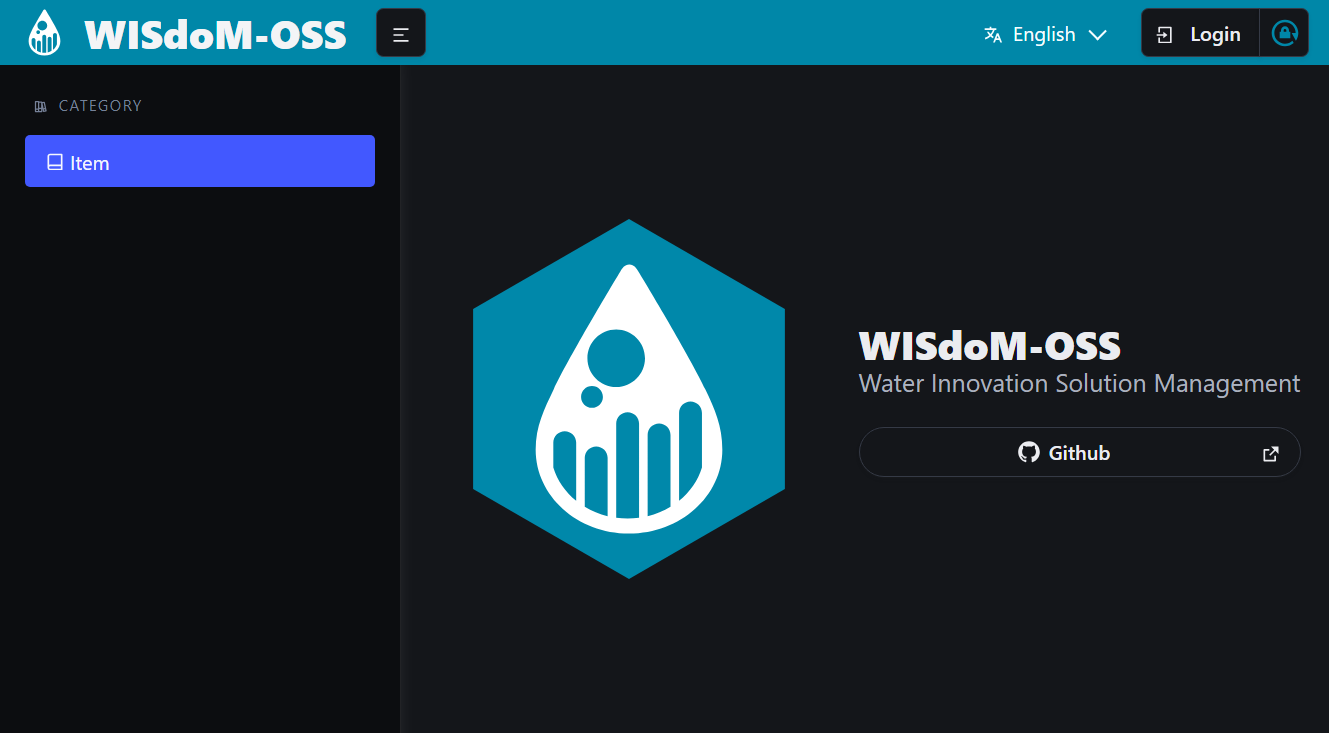
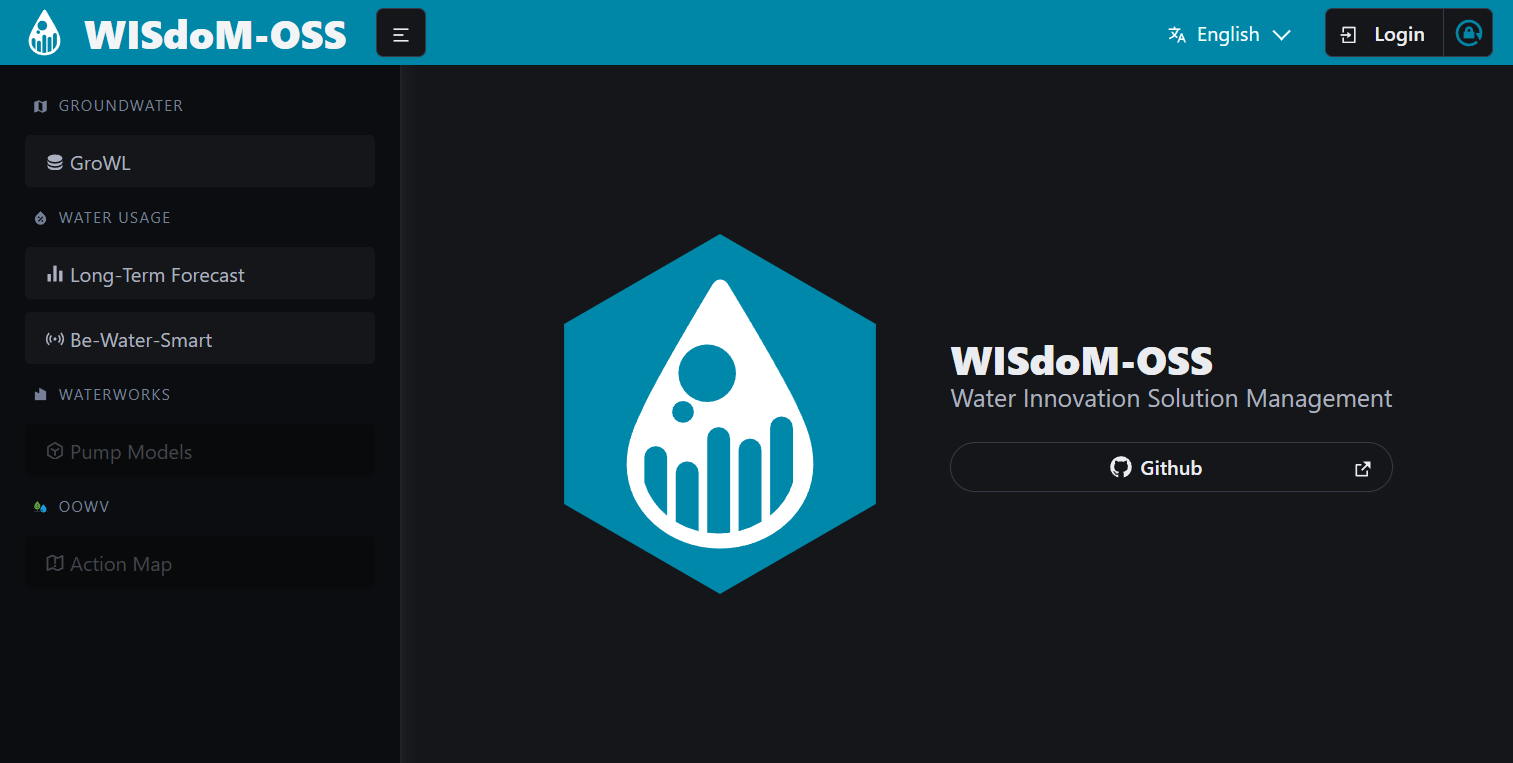
Update `README.md` (#71)
* added new screenshot for the readme

* updated readme info

* updated contributing docs

* fmt

diff --git a/README.md b/README.md
@@ -31,7 +31,16 @@ workflows, services, and data in the water industry:
   information management, as well as creative laboratory approaches, in
   collaboration with the [Oldenburgisch-Ostfriesischen Wasserverband (OOWV)](OOWV).
 
-The frontend is built with [Angular] and styled using [Bulma], providing users with a modern and intuitive interface.
+- **AWARD**[^3]:  
+  The third phase of the project, building upon the foundations of WISdoM and
+  WISdoM 2.0.
+  AWARD aims to enhance data-driven decision-making in the water industry,
+  focusing on resilience and sustainability.
+  The platform continues to be developed in collaboration with OOWV and other
+  partners.
+
+The frontend is built with [Angular] and styled using [Bulma], providing users
+with a modern and intuitive interface.
 
 <div align="center">
   <img src="media/screenshot.png" alt="screenshot of WISdoM frontend">
@@ -40,7 +49,7 @@ The frontend is built with [Angular] and styled using [Bulma], providing users w
 ## Live Demo
 
 The `main` branch is hosted at:  
-[🔗 wisdom-demo.uni-oldenburg.de](https://wisdom-demo.uni-oldenburg.de)
+[🔗 wisdom.uol.de](https://wisdom.uol.de)
 
 > [!NOTE]
 > A user account in our management system is required for full access, but most
@@ -64,3 +73,5 @@ This project is licensed under the terms of the
 [^1]: https://uol.de/vlba/projekte/wisdom
 
 [^2]: https://uol.de/vlba/wisdom20
+
+[^3]: https://uol.de/vlba/projekte/award

diff --git a/CONTRIBUTING.md b/CONTRIBUTING.md
@@ -90,21 +90,22 @@ The [CI](https://github.com/wisdom-oss/frontend/actions) enforces this.
 ## Git Pre-Commit Hooks
 
 In order to automatically format and lint the codebase,
-you can use husky (https://typicode.github.io/husky/get-started.html)
-install via
+you can use [husky](https://typicode.github.io/husky/get-started.html).
+
+Install via:
 
 ```sh
 npm install --global husky
 ```
 
-and make sure npm still functions with repeating
+And make sure `npm` still functions with repeating:
 
 ```sh
 npm install
 ```
 
-Then, whenever you commit anything via git or GitHub Desktop, both scripts get executed
-before the commit happens and you don't have to do so manually
+Then, whenever you commit anything via git or GitHub Desktop, both scripts get
+executed before the commit happens and you don't have to do so manually.
 
 ## Code Organization
 
@@ -123,7 +124,6 @@ Key directories:
     - `config.ts`: App configuration.
     - `i18n.ts`: Configures translation files and namespaces for the application.
     - `routes.ts`: Application routes.
-    - `proxy.conf.json`: Local API proxy for development.
     - `styles.scss`: Global styles.
     - `variables.scss`: Shared Bulma variables.
 
